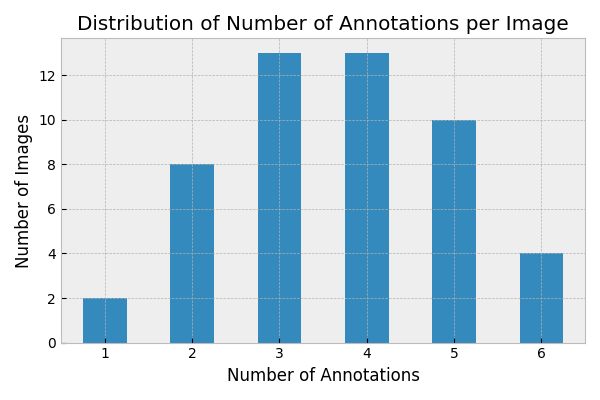
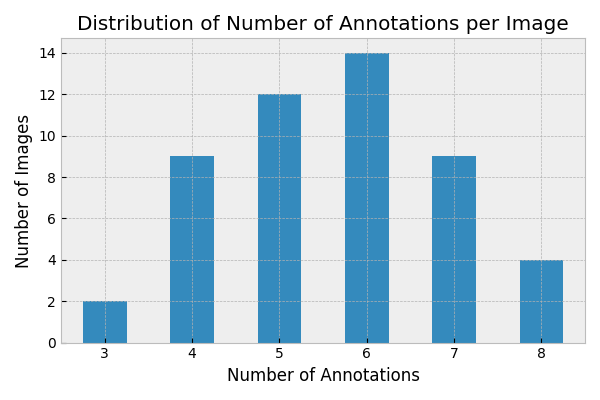
add new agreements and thresholds

diff --git a/medimg-saliency-benchmark/threshold.py b/medimg-saliency-benchmark/threshold.py
@@ -13,7 +13,7 @@ import saliency
 PROJECT_ROOT = os.path.dirname(os.path.abspath(__file__))
 
 CHECKPOINT_DIR = os.path.join(PROJECT_ROOT, "checkpoints")
-ANNOTATIONS_METADATA_PATH = os.path.join(PROJECT_ROOT, "data/annotations/metadata.json")
+ANNOTATIONS_METADATA_PATH = os.path.join(PROJECT_ROOT, "data/annotations/clean_metadata.csv")
 ANNOTATED_MASKS_DIR = os.path.join(PROJECT_ROOT, "data/annotations/annotated")
 ORIGINAL_IMAGES_DIR_FOR_SALIENCY = os.path.join(PROJECT_ROOT, "data/test")
 PLOTS_DIR = os.path.join(PROJECT_ROOT, "plots")
@@ -97,13 +97,14 @@ def main():
     saliency_method_upper = args.saliency_method.upper()
 
     # 1. Load and Prepare Annotation Metadata (once for all models)
-    if not os.path.exists(ANNOTATIONS_METADATA_PATH):
-        print(f"Error: Annotations metadata file not found at {ANNOTATIONS_METADATA_PATH}")
-        return
-    with open(ANNOTATIONS_METADATA_PATH, 'r') as f:
-        annotations_metadata_raw = json.load(f)
+    annotations_metadata_list_filtered = pd.read_csv(
+        os.path.join(
+            os.path.dirname(ANNOTATIONS_METADATA_PATH),
+            "clean_metadata.csv"
+        )
+    ).to_dict(orient='records')
     
-    df_metadata_all = pd.DataFrame(annotations_metadata_raw)
+    df_metadata_all = pd.DataFrame(annotations_metadata_list_filtered)
     df_metadata_no_test = df_metadata_all[~df_metadata_all['annotator_name'].str.contains('test', case=False, na=False)].copy()
     annotations_non_test_list = df_metadata_no_test.to_dict(orient='records')
     print(f"\nTotal non-test annotations loaded: {len(annotations_non_test_list)}")

diff --git a/medimg-saliency-benchmark/utils.py b/medimg-saliency-benchmark/utils.py
@@ -37,7 +37,7 @@ CONSENSUS_POST_FILTER_TYPE = (
     "open"  # Filter applied to individual processed masks before consensus
 )
 CONSENSUS_POST_FILTER_KERNEL_SIZE = 3
-CONSENSUS_METHOD = "intersection"
+CONSENSUS_METHOD = "mean"
 
 
 class BaseConfig:
@@ -491,10 +491,10 @@ def create_consensus_mask(
         ).astype(np.uint8)
     # Softer (take the mean and round)
     elif consensus_method == "mean":
-        consensus_result = np.mean(
+        consensus_result = (np.mean(
             individual_masks,
             axis=0
-        ).round().astype(np.uint8)
+        )>=0.5).astype(np.uint8)
     else:
         raise NotImplementedError(
             f"Unknown consensus_method: {consensus_method}"

diff --git a/medimg-saliency-benchmark/agreement.py b/medimg-saliency-benchmark/agreement.py
@@ -52,7 +52,7 @@ FILLED_REGION_HOLE_CLOSING_KERNEL_SIZE = 5
 MIN_CONTOUR_AREA_FILTER = 20  
 CONSENSUS_POST_FILTER_TYPE = 'open' 
 CONSENSUS_POST_FILTER_KERNEL_SIZE = 3
-CONSENSUS_METHOD = 'intersection'
+CONSENSUS_METHOD = 'mean'
 
 
 def get_best_threshold_for_model(model_name, saliency_method):
